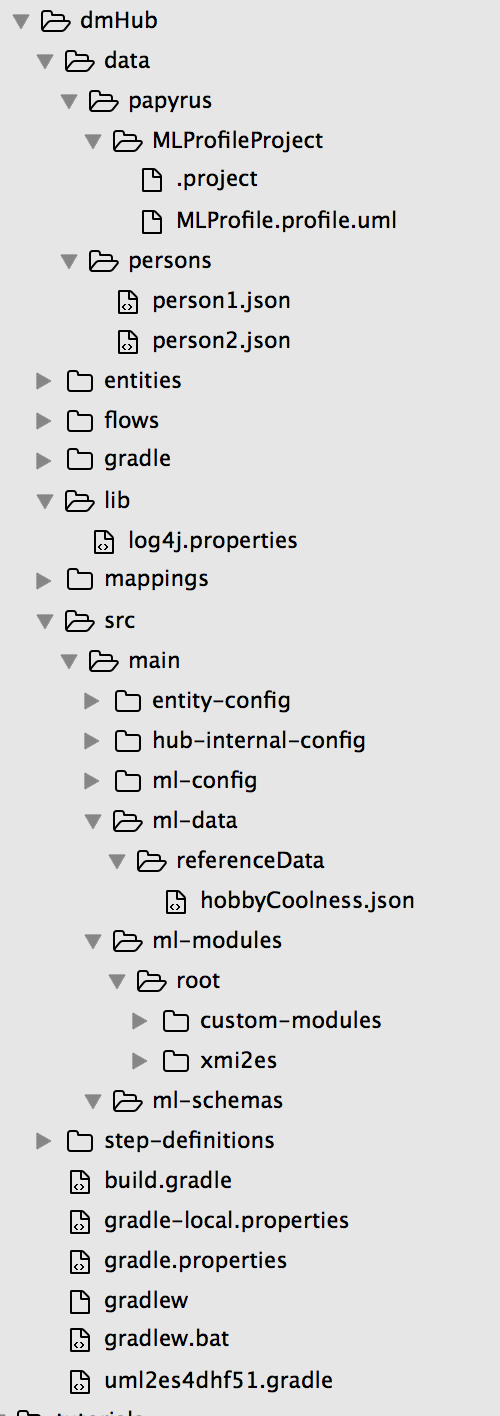
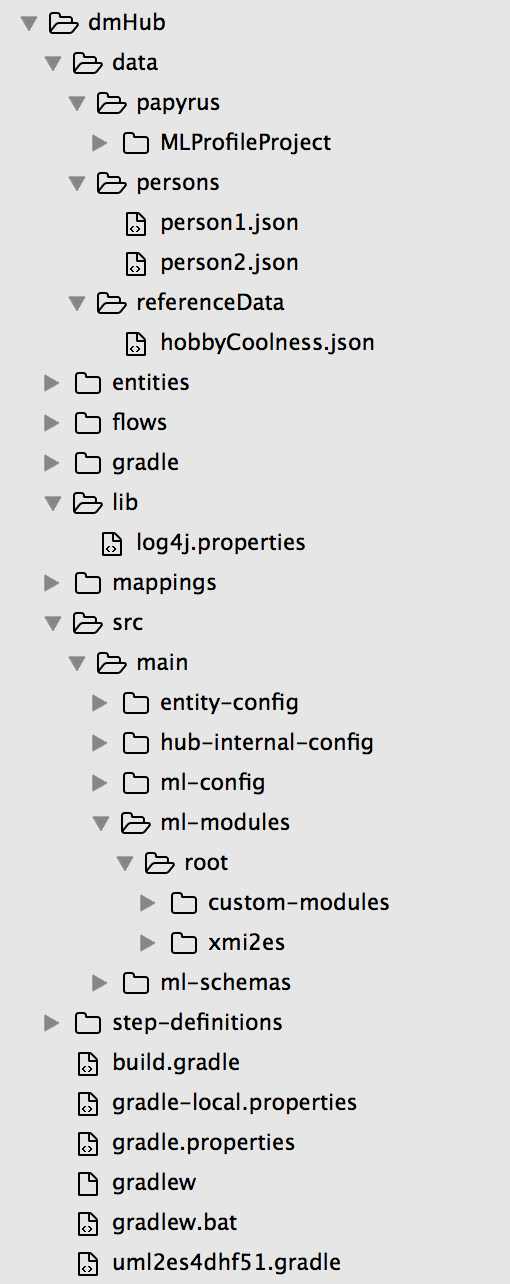
5.1GA update

Changed region(s): [[0.03, 0.0, 0.84, 1.0], [0.0, 0.9969, 0.12, 1.0], [0.72, 0.1558, 0.75, 0.1869]]

diff --git a/uml2es/tutorials/dmui.md b/uml2es/tutorials/dmui.md
@@ -45,7 +45,7 @@ To begin, open Quick Start 5.1 in your browser and create a new project. Put it 
 
 ## Step 1b: Copy into project UML2ES source code, reference data, and sample source data
 
-Next copy into the dmHub folder the entire contents (preserving directory structure) of [dmHubLab/step1](dmHubLab/step1). You did the copy correctly if you see data/persons/person*.json, log/log4j/properties, and src/main/ml-data/referenceData/hobbyCoolness.json directly under dmHub. 
+Next copy into the dmHub folder the entire contents (preserving directory structure) of [dmHubLab/step1](dmHubLab/step1). You did the copy correctly if you see data/persons/person*.json,  data/referenceData/hobbyCoolness.json, and log/log4j/properties directly under dmHub. 
 
 Copy into dmHub/src/main/ml-modules/root the UML2ES transform code [../uml2esTransform/src/main/ml-modules/root/xmi2es](../uml2esTransform/src/main/ml-modules/root/xmi2es). You did it right if you can see the file dmHub/src/main/ml-modules/root/xml2es/xml2esTransform.xqy. If you don't see the file in exactly that this location, remove what you copied and try again at the correct level. 
 
@@ -61,39 +61,81 @@ When you are done, you should have the following folder structure:
 
 ## Step 1c: Deploy UML2ES source code and reference data
 
-After setting up the hub above, you copied UML2ES source code into the project. You also copied the hobbyCoolness.json dictionary into referenceData. To conclude the setup, push that code and data to the server! 
+After setting up the hub above, you copied UML2ES source code into the project. To conclude the setup, push that code to the server! Also, as part of the same step, ingest the file data/referenceData/hobbyCoolness.json to the staging database; more on the purpose of this in section 4 below.
 
 First, edit gradle.properties to supply values for mlUsername and mlPassword. 
 
-Next, edit build.gradle:
+Next, edit build.gradle by adding a gradle task to ingest hobbyCoolness. You will also need to specify a dependency for MLCP. Here is what your build.gradle should look like:
 
 ```
 buildscript {
   repositories {
-    jcenter()
-    maven {url 'http://distro.marklogic.com/nexus/repository/maven-releases/'}
-  }
-  dependencies {
-    classpath "com.marklogic:ml-data-hub:5.1.0-rc1"
+    maven {url 'http://developer.marklogic.com/maven2/'}
   }
 }
 
 plugins {
-  id 'net.saliman.properties' version '1.4.6'
+    id 'java'
+    id 'eclipse'
+    id 'idea'
+
+    // This plugin allows you to create different environments
+    // for your gradle deploy. Each environment is represented
+    // by a gradle-${env}.properties file
+    // See https://github.com/stevesaliman/gradle-properties-plugin
+    // specify the env on the command line with:
+    // gradle -PenvironmentName=x ...
+    id 'net.saliman.properties' version '1.4.6'
+
+    // This gradle plugin extends the ml-gradle plugin with
+    // commands that make Data Hub do its magic
+    id 'com.marklogic.ml-data-hub' version '5.1.0'
 }
 
-apply plugin: "com.marklogic.ml-data-hub"
+repositories {
+    jcenter()
+    maven {url 'http://developer.marklogic.com/maven2/'}
+}
 
-ext {
-    // Configuration for loading the reference data documents under src/main/ml-data
-    mlAppConfig.dataConfig.databaseName = mlStagingDbName
-    mlAppConfig.dataConfig.permissions = "flow-operator-role,read,flow-developer-role,update"
+configurations {
+
+  // This configuration captures the dependencies for running mlcp (Content Pump). This is only needed if you want
+  // to run mlcp via Gradle tasks. If you do, using com.marklogic.gradle.task.MlcpTask is a useful starting point, as
+  // shown below.  Need to force to use certain version of xml-apis library.
+  mlcp {
+      resolutionStrategy {
+        force "xml-apis:xml-apis:1.4.01"
+      }
+    }
+}
+
+dependencies {
+    // this allows you to write custom java code that depends
+    // on the Data Hub library
+    compile 'com.marklogic:marklogic-data-hub:5.1.0'
+    compile 'com.marklogic:marklogic-xcc:9.0.7'
+
+    mlcp "com.marklogic:mlcp:9.0.10"
+    mlcp "org.apache.commons:commons-csv:1.2"
+    mlcp files("lib")
+}
+
+task loadRef(type: com.marklogic.gradle.task.MlcpTask) {
+    classpath = configurations.mlcp
+    username = project.findProperty("mlUsername")
+    password = project.findProperty("mlPassword")
+    command = "IMPORT"
+    database = project.findProperty("mlStagingDbName")
+    input_file_path = "data/referenceData/hobbyCoolness.json"
+    output_collections = "referenceData"
+    output_permissions = "rest-reader,read,rest-writer,update"
+    output_uri_replace = ".*data,''"
 }
 ```
 
 Finally, from the command line, run the following gradle command to promote UML2ES and reference data; make sure to run this from your dmHub project folder. 
 
-./gradlew -i mlReloadModules mlDeployApp #TODO, can I narrow this down?
+./gradlew -i mlReloadModules loadRef
 
 
 </p>
@@ -224,9 +266,9 @@ If you think you might have messed up along the way, a pre-cooked model is avail
 <details><summary>Click to view/hide this section</summary>
 <p>
 
-Now it's time to convert the UML model to Entity Services form. This is best done by running a Gradle command from the command line. Make sure you are in the dmHub project folder. Run the following:
+Now it's time to convert the UML model to Entity Services form. This is best done by running a Gradle command from the command line. Make sure you are in the dmHub project folder. Run the following. (You need to give the path to your PWIModel.uml file; replace MYPATH with the actual path on your machine in which PWIModel/PWIMode.uml is kept.
 
-./gradlew -i -b uml2es4dhf51.gradle uDeployModelToDHF -PmodelFile=data/model/PWIModel/PWIModel.uml -PentitySelect=all #should be stereotype, but DHF wants every entity used in mapping (even secondary entities like hobby) to live in its ES definition
+./gradlew -i -b uml2es4dhf51.gradle uDeployModelToDHF -PmodelFile=MYPATH/PWIModel/PWIModel.uml -PentitySelect=all #should be stereotype, but DHF wants every entity used in mapping (even secondary entities like hobby) to live in its ES definition
 
 Lots of things happen when you run this. If there were no issues, you will find a new file, called Person.entity.json, in the entities folder of you dmHub project.
 
